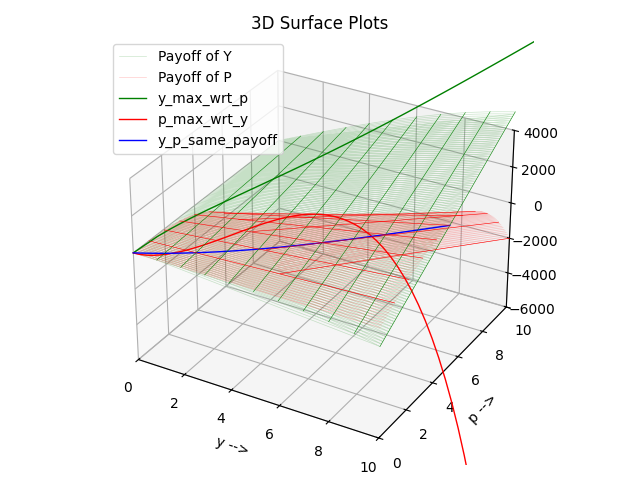
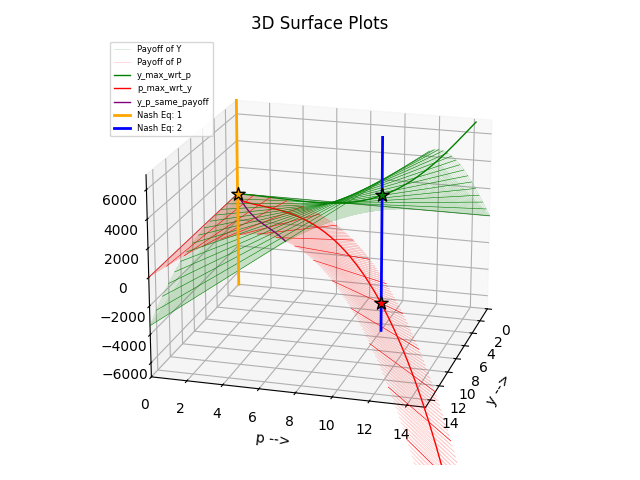
cnt

diff --git a/01StrategicDecision/Nashpy/14PayoffsProjectEfforts.py b/01StrategicDecision/Nashpy/14PayoffsProjectEfforts.py
@@ -3,9 +3,10 @@ import numpy as np
 import nashpy as nash
 
 ax = plt.axes(projection='3d')
+ax.view_init(19, 16, 0)
 
-y_pts = np.linspace(0, 10, 101)
-p_pts = np.linspace(0, 10, 101)
+y_pts = np.linspace(0, 15, 151)
+p_pts = np.linspace(0, 15, 151)
 y_mesh, p_mesh = np.meshgrid(y_pts, p_pts)
 payoff_y = 60 * y_mesh * p_mesh - y_mesh**3
 payoff_p = 60 * y_mesh * p_mesh - 8 * p_mesh**3
@@ -24,49 +25,38 @@ ax.plot(y_pts, p_max_p_pts, p_max_vals, color='red', linewidth=1, label='p_max_w
 
 p_same_payoff_y = y_pts / 2
 same_payoff = 60 * y_pts * p_same_payoff_y - y_pts ** 3
-ax.plot(y_pts, p_same_payoff_y, same_payoff, color='blue', linewidth=1, label='y_p_same_payoff')
+ax.plot(y_pts, p_same_payoff_y, same_payoff, color='purple', linewidth=1, label='y_p_same_payoff')
 
-ax.plot(1, p_pts, 60 * 1 * p_pts - 1**3, color='green', linewidth=.4)
-ax.plot(2, p_pts, 60 * 2 * p_pts - 2**3, color='green', linewidth=.4)
-ax.plot(3, p_pts, 60 * 3 * p_pts - 3**3, color='green', linewidth=.4)
-ax.plot(4, p_pts, 60 * 4 * p_pts - 4**3, color='green', linewidth=.4)
-ax.plot(5, p_pts, 60 * 5 * p_pts - 5**3, color='green', linewidth=.4)
-ax.plot(6, p_pts, 60 * 6 * p_pts - 6**3, color='green', linewidth=.4)
-ax.plot(7, p_pts, 60 * 7 * p_pts - 7**3, color='green', linewidth=.4)
-ax.plot(8, p_pts, 60 * 8 * p_pts - 8**3, color='green', linewidth=.4)
-ax.plot(9, p_pts, 60 * 9 * p_pts - 9**3, color='green', linewidth=.4)
-ax.plot(10, p_pts, 60 * 10 * p_pts - 10**3, color='green', linewidth=.4)
+for pt in range(0, 16):
+    print(f'pt = {pt}')
+    ax.plot(pt, p_pts, 60 * pt * p_pts - pt**3, color='green', linewidth=.4)
+    ax.plot(y_pts, pt, 60 * y_pts * pt - 8*pt**3, color='red', linewidth=.4)
 
-ax.plot(y_pts, 1, 60 * 1 * y_pts - 8 * 1**3, color='red', linewidth=.4)
-ax.plot(y_pts, 2, 60 * 2 * y_pts - 8 * 2**3, color='red', linewidth=.4)
-ax.plot(y_pts, 3, 60 * 3 * y_pts - 8 * 3**3, color='red', linewidth=.4)
-ax.plot(y_pts, 4, 60 * 4 * y_pts - 8 * 4**3, color='red', linewidth=.4)
-ax.plot(y_pts, 5, 60 * 5 * y_pts - 8 * 5**3, color='red', linewidth=.4)
-ax.plot(y_pts, 6, 60 * 6 * y_pts - 8 * 6**3, color='red', linewidth=.4)
-ax.plot(y_pts, 7, 60 * 7 * y_pts - 8 * 7**3, color='red', linewidth=.4)
-ax.plot(y_pts, 8, 60 * 8 * y_pts - 8 * 8**3, color='red', linewidth=.4)
-ax.plot(y_pts, 9, 60 * 9 * y_pts - 8 * 9**3, color='red', linewidth=.4)
-ax.plot(y_pts, 10, 60 * 10 * y_pts - 8 * 10**3, color='red', linewidth=.4)
+ax.plot([0, 0], [0, 0], [-7000, 7000], color='orange', linewidth=2, label='Nash Eq: 1')
+ax.plot([5, 5], [10, 10], [-7000, 7000], color='blue', linewidth=2, label='Nash Eq: 2')
+ax.scatter(0, 0, 0 ,color='orange', marker='*', s=100, edgecolors='k')
+ax.scatter(5, 10, (60*5*10-5**3), color='green', marker='*', s=100, edgecolors='k')
+ax.scatter(5, 10, (60*5*10-8*10**3), color='red', marker='*', s=100, edgecolors='k')
 
-game = nash.Game(payoff_y, payoff_p)
-for nash_equilibrium in next(game.support_enumeration()):
-    if nash_equilibrium is None:
-        break
-    else:
-        print(nash_equilibrium)
-        print(len([nash_equilibrium][0]))
+# game = nash.Game(payoff_y, payoff_p)
+# for nash_equilibrium in next(game.support_enumeration()):
+#     if nash_equilibrium is None:
+#         break
+#     else:
+        # print(nash_equilibrium)
+        # print(len([nash_equilibrium][0]))
 # print(f'nash_equilibrium({type(nash_equilibrium)})\n{nash_equilibrium}')
 # next_nash = next(nash_equilibrium)
 # print(f'next_nash({type(next_nash)})\n{next_nash}')
 
 ax.legend(loc='upper right')
-ax.set_xlim(0, 10)
-ax.set_ylim(0, 10)
-ax.set_zlim(-6000, 4000)
+ax.set_xlim(0, 15)
+ax.set_ylim(0, 15)
+ax.set_zlim(-7000, 7000)
 plt.title("3D Surface Plots")
 plt.xlabel("y -->")
 plt.ylabel("p -->")
-plt.legend(loc='upper left')
+plt.legend(loc='upper left', fontsize=6)
 plt.grid(True)
 plt.tight_layout()
 

diff --git a/01StrategicDecision/Nashpy/15BBL_PlayerAuction.py b/01StrategicDecision/Nashpy/15BBL_PlayerAuction.py
@@ -41,8 +41,8 @@ for player in range(len(player_list)):
     cv, pv = valuation_function(player, actual_fan_base_rating[player],
                                 franchise_budget=2, sponsor_agreement=1.)
     auction_value = cv + pv
-    # print(f'Player {player} -> {actual_fan_base_rating[player - 1]} -> {cv} -> {pv} '
-    #       f'-> {auction_value}')
+    print(f'Player {player} -> {actual_fan_base_rating[player - 1]} -> {cv} -> {pv} '
+          f'-> {auction_value}')
     ax.plot([player, player], [actual_fan_base_rating[player], actual_fan_base_rating[player]],
             [0, cv], color='yellow', linewidth=3)
     ax.scatter(player, actual_fan_base_rating[player], cv, color='k', s=20, alpha=1, marker='d')
